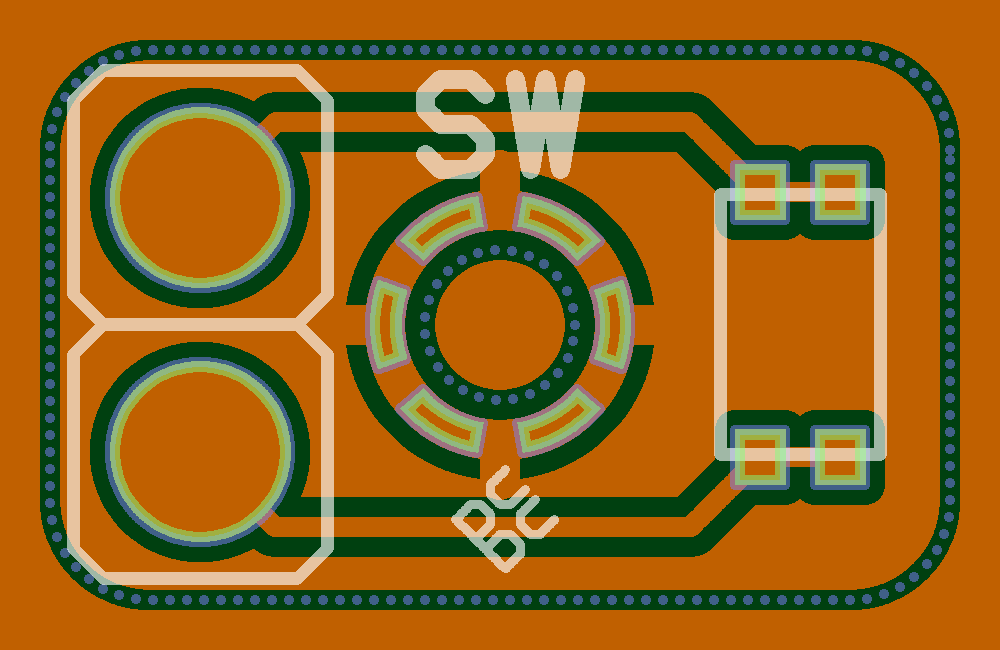
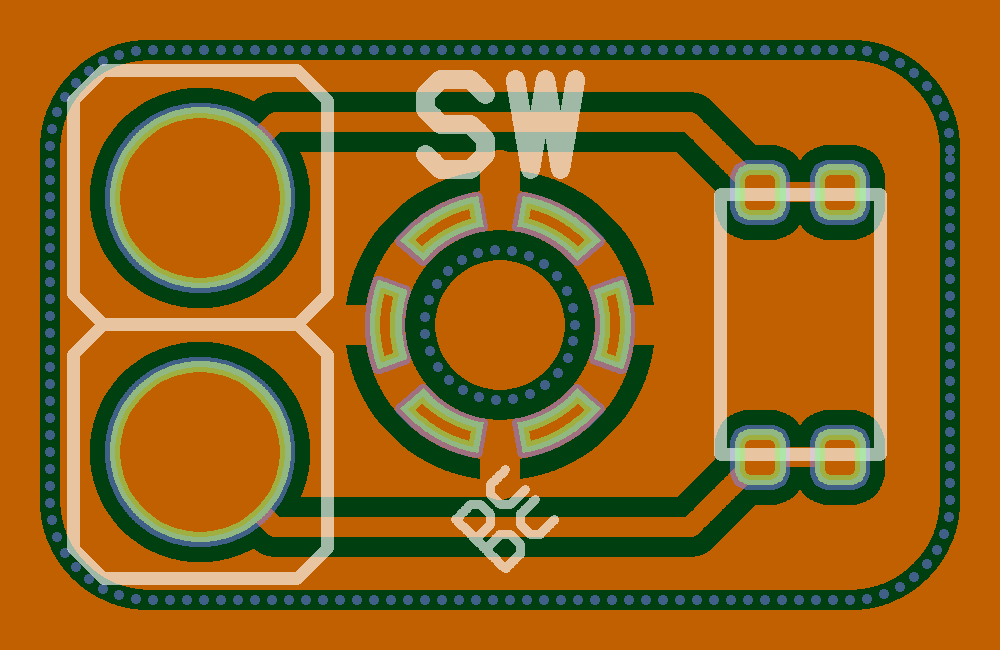
Refactor

diff --git a/eda/pcb/pcb.go b/eda/pcb/pcb.go
@@ -15,63 +15,48 @@ var fileNamePrefix = map[bool]string{
 	true:  "2-",
 }
 
-func Process(config *config.Config, components ...*eda.Component) error {
-	var jobs []func() error
+func Process(config *config.Config, component *eda.Component) error {
 
-	for _, comp := range components {
-		jobs = append(jobs, func() error { return processComponent(config, comp) })
-	}
-
-	return util.RunConcurrently(jobs...)
-}
-
-func processComponent(initialConfig *config.Config, initialComponent *eda.Component) error {
-	if initialConfig == nil {
-		initialConfig = config.Default()
-	}
-
-	config := *initialConfig
-
-	component := &eda.Component{
+	componentFront := &eda.Component{
 		CutsWidth:           0.1,
 		CutsPerforationStep: 0.17,
 		MarksWidth:          0.13,
-		TracksWidth:         config.TrackWidth,
-		ClearWidth:          config.ClearWidth,
+		TracksWidth:         0.2,
+		ClearWidth:          0.2,
 
 		Nested: eda.Components{
-			initialComponent,
+			component,
 		},
 	}
 
-	componentBack := component.Arrange(transform.MirrorX())
+	componentBack := componentFront.Arrange(transform.MirrorX())
 
 	var copper1, copper2, mask1, mask2, silk1, silk2, stencil *bitmap.Bitmap
 
 	err := util.RunConcurrently(
 		func() error {
 			var e error
-			copper1, e = SaveEtch(&config, component, false)
+			copper1, e = SaveEtch(config, componentFront, false)
 			return e
 		},
 		func() error {
 			var e error
-			copper2, e = SaveEtch(&config, componentBack, true)
+			copper2, e = SaveEtch(config, componentBack, true)
 			return e
 		},
 		func() error {
 			var e error
-			mask1, silk1, e = SaveMask(&config, component, false)
+			mask1, silk1, e = SaveMask(config, componentFront, false)
 			return e
 		},
 		func() error {
 			var e error
-			mask2, silk2, e = SaveMask(&config, componentBack, true)
+			mask2, silk2, e = SaveMask(config, componentBack, true)
 			return e
 		},
 		func() error {
 			var e error
-			stencil, e = SaveStencil(&config, component)
+			stencil, e = SaveStencil(config, componentFront)
 			return e
 		},
 	)
@@ -81,11 +66,11 @@ func processComponent(initialConfig *config.Config, initialComponent *eda.Compon
 
 	return util.RunConcurrently(
 		func() error {
-			return saveOverview(&config, false, copper1, mask1, silk1, stencil)
+			return saveOverview(config, "1-overview.png", copper1, mask1, silk1, stencil)
 		},
 
 		func() error {
-			return saveOverview(&config, true, copper2, mask2, silk2, nil)
+			return saveOverview(config, "2-overview.png", copper2, mask2, silk2, nil)
 		},
 	)
 }

diff --git a/eda/pcb/overview.go b/eda/pcb/overview.go
@@ -10,8 +10,8 @@ import (
 	"temnok/pcbc/util"
 )
 
-func saveOverview(config *config.Config, back bool, copper, mask, silk, stencil *bitmap.Bitmap) error {
-	filename := config.SavePath + fileNamePrefix[back] + "overview.png"
+func saveOverview(config *config.Config, fileName string, copper, mask, silk, stencil *bitmap.Bitmap) error {
+	fileName = config.SavePath + fileName
 
 	bitmaps := []*bitmap.Bitmap{
 		copper,
@@ -34,7 +34,7 @@ func saveOverview(config *config.Config, back bool, copper, mask, silk, stencil 
 		bitmaps,
 		colors,
 	)
-	if err := util.SavePNG(filename, im); err != nil {
+	if err := util.SavePNG(fileName, im); err != nil {
 		return err
 	}
 

diff --git a/eda/pcb/config/config.go b/eda/pcb/config/config.go
@@ -10,12 +10,6 @@ type Config struct {
 	Width, Height float64
 	PixelsPerMM   float64
 
-	TrackWidth float64
-	ClearWidth float64
-
-	CutsWidth           float64
-	CutsPerforationStep float64
-
 	LbrnCenterX, LbrnCenterY float64
 
 	SavePath string
@@ -26,9 +20,6 @@ func Default() *Config {
 		Width:       1,
 		Height:      1,
 		PixelsPerMM: 100,
-
-		TrackWidth: 0.2,
-		ClearWidth: 0.2,
 
 		LbrnCenterX: 55,
 		LbrnCenterY: 55,

diff --git a/eda/text.go b/eda/text.go
@@ -8,12 +8,6 @@ func CenteredText(line string) *Component {
 	return CenteredTextColumn(0, line)
 }
 
-func CenteredTextRow(dx float64, strs ...string) *Component {
-	return &Component{
-		Marks: font.CenteredRow(dx, strs...),
-	}
-}
-
 func CenteredTextColumn(dy float64, lines ...string) *Component {
 	return &Component{
 		Marks: font.CenteredColumn(dy, lines...),

diff --git a/eda/lib/ts/hyp/1TS026A.go b/eda/lib/ts/hyp/1TS026A.go
@@ -9,10 +9,10 @@ import (
 )
 
 var Switch1TS026A = &eda.Component{
-	Pads: path.Rect(0.5, 0.55).
+	Pads: path.RoundRect(0.5, 0.55, 0.15).
 		Clone(2, 1.3-0.5, 0).
 		Clone(2, 0, -(3.2 - 0.55)).
-		Transform(transform.Scale(1, -1).RotateDegrees(90)),
+		Transform(transform.MirrorY().RotateDegrees(90)),
 
 	Marks: path.Paths{
 		path.Rect(2.6, 1.6),

diff --git a/transform/transforms.go b/transform/transforms.go
@@ -54,3 +54,7 @@ func ScaleUniformly(k float64) T {
 func MirrorX() T {
 	return Scale(-1, 1)
 }
+
+func MirrorY() T {
+	return Scale(1, -1)
+}
